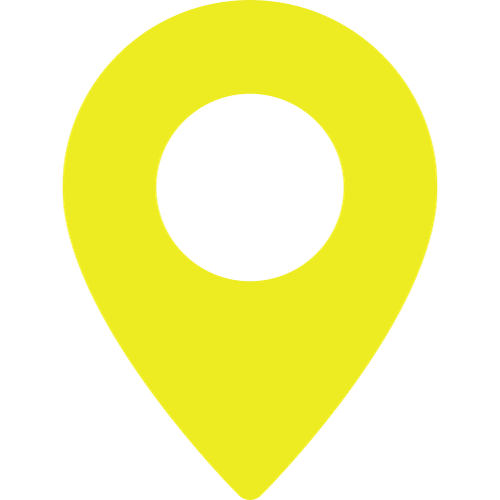
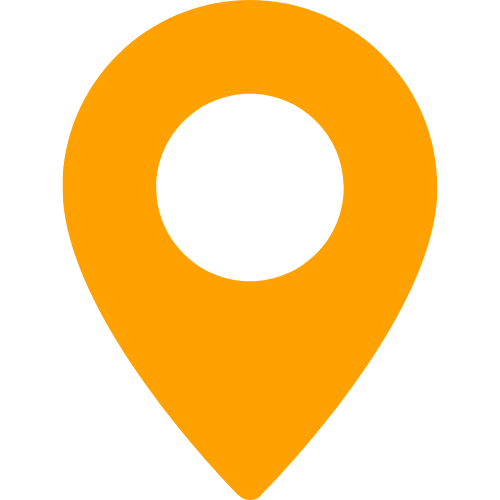
Feat: color was change for better contrast

diff --git a/src/map/core/preloadImages.js b/src/map/core/preloadImages.js
@@ -57,7 +57,7 @@ export const mapImages = {};
 
 const mapPalette = createPalette({
   success: { main: '#0dd3ba' },
-  warning: { main: '#FFFD16' },
+  warning: { main: '#FFA100' },
   error: { main: '#ec1b3e' },
   neutral: { main: grey[500] },
 });

diff --git a/src/common/theme/palette.js b/src/common/theme/palette.js
@@ -20,7 +20,7 @@ export default (server, darkMode) => ({
     main: '#3bb2d0',
   },
   warning: {
-    main: '#FFFD16',
+    main: '#FFA100',
   },
   error:{
     main: '#ec1b3e',
